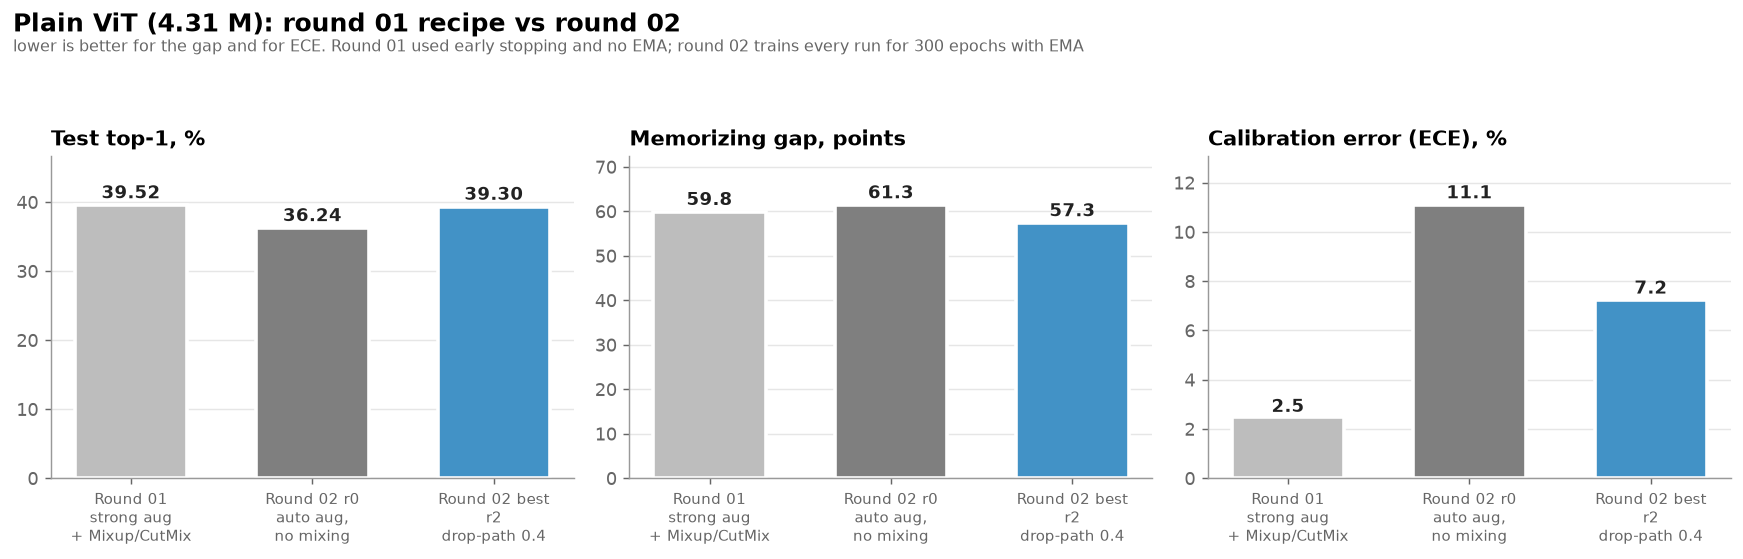
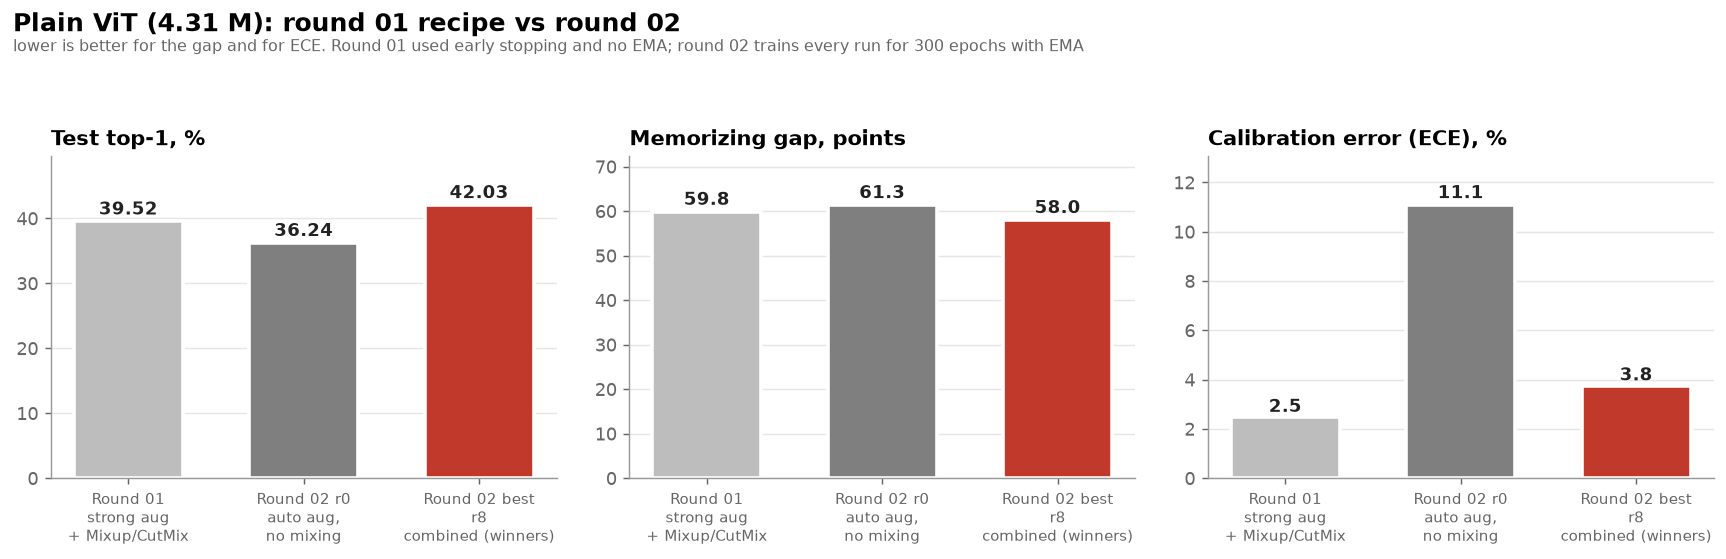
Plain ViT round 02 README and figures: r8 final run, +2.5 points over round 01, paired tests, comparison with CNN r8

diff --git a/Vision_Transformer/02_autoaug_nomix_regularization/README.md b/Vision_Transformer/02_autoaug_nomix_regularization/README.md
@@ -1,6 +1,6 @@
 # Vision Transformer, round 02: `auto` augmentation, no Mixup/CutMix, and a regularization search
 
-![task](https://img.shields.io/badge/task-fine--grained%20classification-blue) ![dataset](https://img.shields.io/badge/dataset-CUB--200--2011-green) ![pretrained](https://img.shields.io/badge/pretrained%20weights-none-red) ![model](https://img.shields.io/badge/model-plain%20ViT%204.31M-orange) ![runs](https://img.shields.io/badge/runs-8%20of%209-yellow) ![seeds](https://img.shields.io/badge/seeds-1%20of%203-yellow)
+![task](https://img.shields.io/badge/task-fine--grained%20classification-blue) ![dataset](https://img.shields.io/badge/dataset-CUB--200--2011-green) ![pretrained](https://img.shields.io/badge/pretrained%20weights-none-red) ![model](https://img.shields.io/badge/model-plain%20ViT%204.31M-orange) ![runs](https://img.shields.io/badge/runs-9%20of%209-brightgreen) ![seeds](https://img.shields.io/badge/seeds-1%20of%203-yellow)
 
 Round 01 ([`../01_strongaug_mixup_cutmix`](../01_strongaug_mixup_cutmix)) trained a plain Vision Transformer **from scratch** on 5,394 photos (about 27 per species) and found that it **memorizes** its training photos: about 100 % right on them, 42 % on new ones. This round asks: **which training changes reduce that memorizing, without hurting accuracy?**
 
@@ -12,23 +12,23 @@ It changes the base recipe (one augmentation operation at a time, no photo mixin
 
 ## 1. The result in one minute
 
-| | Round 01 (`base`) | Round 02 r0 | **Round 02 best: r2 drop-path 0.4** |
-|---|---|---|---|
-| Recipe | `strong` aug + Mixup/CutMix, early stopping, no EMA | `auto` aug, no mixing, 300 epochs, EMA | r0 + drop-path 0.4 |
-| Validation top-1 | 42.33 % | 39.17 % | **42.67 %** |
-| **Test top-1** | **39.52 %** | 36.24 % | **39.30 %** |
-| Test top-5 | **65.12 %** | 61.81 % | 63.48 % |
-| Test macro-F1 | **39.12 %** | 35.68 % | 38.72 % |
-| Memorizing gap | 59.8 pts | 61.3 pts | **57.3 pts** |
-| Calibration error (ECE) | **2.49 %** | 11.08 % | 7.25 % |
+| | Round 01 (`base`) | Round 02 r0 | Round 02 best single change: r2 | **Round 02 final: r8 combined** |
+|---|---|---|---|---|
+| Recipe | `strong` aug + Mixup/CutMix, early stopping, no EMA | `auto` aug, no mixing, 300 epochs, EMA | r0 + drop-path 0.4 | r0 + drop-path 0.4 + label smoothing 0.2 + weight decay 0.2 |
+| Validation top-1 | 42.33 % | 39.17 % | 42.67 % | **43.00 %** |
+| **Test top-1** | 39.52 % | 36.24 % | 39.30 % | **42.03 %** |
+| Test top-5 | 65.12 % | 61.81 % | 63.48 % | **67.16 %** |
+| Test macro-F1 | 39.12 % | 35.68 % | 38.72 % | **41.43 %** |
+| Memorizing gap | 59.8 pts | 61.3 pts | **57.3 pts** | 58.0 pts |
+| Calibration error (ECE) | **2.49 %** | 11.08 % | 7.25 % | 3.76 % |
 
-One seed (42), 5,794 unseen test photos, sampling noise about ±1.3 points. "Best" = the run with the best **validation** accuracy; r2 and r3 tie (42.67 %), and the tie goes to the smaller change. r8 (the winners combined) is not run yet.
+One seed (42), 5,794 unseen test photos, sampling noise about ±1.3 points. The final run is the one with the best **validation** accuracy: r8 (43.00 %).
 
 1. **The new base recipe hurt the ViT.** Round 02 r0 is 3.3 test points **below** round 01 (only r0 right on 490 photos, only round 01 right on 679; p < 0.0001). Removing Mixup/CutMix cost the ViT accuracy.
-2. **Drop-path is the one change that clearly helps:** +3.5 validation and +3.0 test points (0.4 and 0.5), significant on the test photos (p < 0.0001). It also gives the smallest gap.
-3. **The best run only gets back to round 01's level:** 39.30 % against 39.52 % (566 vs 581 photos, p = 0.68, no real difference), with a gap 2.5 points smaller.
-4. **SAM and weight decay 0.1 hurt;** label smoothing 0.2 and weight decay 0.2 help a little on validation but not on test.
-5. **Memorizing is not solved:** every run reaches about 100 % on the training photos; the gap stays between 57 and 63 points.
+2. **Drop-path is the one single change that clearly helps:** +3.5 validation and +3.0 test points (0.4 and 0.5), significant on the test photos (p < 0.0001). On its own it only gets back to round 01's level (39.30 % against 39.52 %, p = 0.68).
+3. **The winners combined (r8) beat everything:** 42.03 % test top-1, **+2.5 points above round 01** (only r8 right on 641 photos, only round 01 right on 496; p < 0.0001), +2.7 above r2 (p < 0.0001) and +5.8 above r0.
+4. **SAM and weight decay 0.1 hurt;** label smoothing 0.2 and weight decay 0.2 do little alone, but add to drop-path in r8.
+5. **Memorizing is not solved:** every run reaches about 100 % on the training photos; the gap stays between 57 and 63 points (r8: 58.0).
 
 ![Round 01 vs round 02](docs/figures/vit_07_round01_vs_round02.png)
 
@@ -167,15 +167,15 @@ Rules: **one seed (42)**; winners are picked on **validation only** (600 photos)
 |---|---|---|---|---|---|---|---|---|---|
 | r0_reference | nothing (new base recipe) | 141 | 39.17 % | | 61.3 | 36.24 % | 61.81 % | 35.68 % | 11.08 % |
 | r1_droppath0.2 | drop-path 0.1 → 0.2 | 99 | 40.17 % | +6 | 57.8 | 37.33 % | 63.96 % | 37.02 % | 9.46 % |
-| **r2_droppath0.4** | drop-path 0.1 → 0.4 | 299 | **42.67 %** | **+21** | 57.3 | **39.30 %** | 63.48 % | **38.72 %** | 7.25 % |
-| r3_droppath0.5 | drop-path 0.1 → 0.5 | 258 | **42.67 %** | **+21** | **57.2** | 38.97 % | **65.88 %** | 38.54 % | 9.41 % |
+| r2_droppath0.4 | drop-path 0.1 → 0.4 | 299 | 42.67 % | +21 | 57.3 | 39.30 % | 63.48 % | 38.72 % | 7.25 % |
+| r3_droppath0.5 | drop-path 0.1 → 0.5 | 258 | 42.67 % | +21 | **57.2** | 38.97 % | 65.88 % | 38.54 % | 9.41 % |
 | r4_labelsmooth0.2 | label smoothing 0.1 → 0.2 | 205 | 39.83 % | +4 | 60.2 | 36.24 % | 61.49 % | 35.64 % | **2.61 %** |
 | r5_wd0.1 | weight decay 0.05 → 0.1 | 233 | 38.00 % | −7 | 62.3 | 35.61 % | 59.86 % | 34.88 % | 4.47 % |
 | r6_wd0.2 | weight decay 0.05 → 0.2 | 137 | 40.33 % | +7 | 60.3 | 36.90 % | 62.46 % | 36.44 % | 10.18 % |
 | r7_sam | SAM optimizer (rho 0.05) | 122 | 37.67 % | −9 | 63.0 | 34.28 % | 59.99 % | 33.84 % | 10.42 % |
-| r8_combined | winners of r1 to r7 combined | *pending* | | | | | | | |
+| **r8_combined** | drop-path 0.4 + label smoothing 0.2 + weight decay 0.2 | 268 | **43.00 %** | **+23** | 58.0 | **42.03 %** | **67.16 %** | **41.43 %** | 3.76 % |
 
-*Gap = accuracy on augmentation-free training photos minus validation accuracy, at the chosen epoch. ECE = calibration error, lower is better. 1 validation photo = 0.17 points. Every run: 300 epochs, about 80 minutes on the RTX 5090 (15.9 s per epoch); SAM 146 minutes (29.2 s per epoch). Tables: [`docs/tables/`](docs/tables).*
+*Gap = accuracy on augmentation-free training photos minus validation accuracy, at the chosen epoch. ECE = calibration error, lower is better. 1 validation photo = 0.17 points. Every run: 300 epochs, about 80 minutes on the RTX 5090 (15.9 to 16.4 s per epoch); SAM 146 minutes (29.2 s per epoch). Tables: [`docs/tables/`](docs/tables).*
 
 ![Every run against r0](docs/figures/vit_01_overview.png)
 
@@ -192,6 +192,7 @@ Each run against r0, on the 5,794 test photos (exact McNemar test):
 | r5 weight decay 0.1 | −0.66 | 372 | 410 | 0.19 | no difference |
 | r6 weight decay 0.2 | +0.66 | 375 | 337 | 0.17 | no difference |
 | r7 SAM | −1.98 | 362 | 477 | **0.0001** | worse |
+| **r8 combined** | **+5.76** | 636 | 302 | **< 0.0001** | better |
 
 This shows the differences are not caused by which test photos happened to be drawn. It does **not** show they survive a different random seed; that needs the three-seed runs.
 
@@ -199,7 +200,7 @@ This shows the differences are not caused by which test photos happened to be dr
 
 ![Gap vs accuracy](docs/figures/vit_02_gap_vs_accuracy.png)
 
-The goal is up and to the left. **Drop-path 0.4 and 0.5 are the only runs clearly there:** +3.5 validation points and a gap 4 points smaller than r0. Label smoothing 0.2 and weight decay 0.2 move a little up and left. Weight decay 0.1 and SAM move down and right: less accurate and more memorizing.
+The goal is up and to the left. **r8 is the highest point**, with drop-path 0.4 and 0.5 just below it: about +3.5 to +3.8 validation points and a gap 3 to 4 points smaller than r0. Label smoothing 0.2 and weight decay 0.2 move a little up and left. Weight decay 0.1 and SAM move down and right: less accurate and more memorizing.
 
 ### How strong should each setting be?
 
@@ -216,9 +217,9 @@ The goal is up and to the left. **Drop-path 0.4 and 0.5 are the only runs clearl
 ![Learning curves, every run](docs/figures/vit_04_learning_curves.png)
 
 What the four panels show:
-* **Validation top-1 (top left):** most runs flatten at 37 to 40 % after about epoch 100. Only drop-path 0.4 and 0.5 keep climbing until the end (r2's best epoch is 299, r3's 258). SAM peaks early and then declines.
-* **Validation loss (top right):** every run reaches its lowest validation loss between epochs 68 and 112 and then rises. The drop-path 0.4 and 0.5 runs go lowest (2.65) and rise least (to 2.82 and 2.77 at epoch 300, against 3.05 for r0).
-* **Training photos (bottom left):** every run reaches 99 % on clean training photos, between epoch 100 (r0, label smoothing, weight decay 0.1) and epoch 150 (drop-path 0.5). Drop-path slows memorizing down but does not stop it.
+* **Validation top-1 (top left):** most runs flatten at 37 to 40 % after about epoch 100. Only the runs with drop-path 0.4 or 0.5 keep climbing until the end (r2's best epoch is 299, r3's 258, r8's 268). SAM peaks early and then declines.
+* **Validation loss (top right):** every run reaches its lowest validation loss between epochs 68 and 112 and then rises. r8 goes lowest (2.63 at epoch 110) and, with r3, rises least (to 2.76 at epoch 300, against 3.05 for r0).
+* **Training photos (bottom left):** every run reaches 99 % on clean training photos, between epoch 100 (r0, label smoothing, weight decay 0.1) and epoch 150 (drop-path 0.5); r8 at epoch 135. Drop-path slows memorizing down but does not stop it.
 * **Gap (bottom right):** it climbs to about 60 points by epoch 100 and stays there; at epoch 300 it ranges from 57 (drop-path) to 65 (SAM).
 
 ![Race](docs/animations/vit_race.gif)
@@ -235,60 +236,61 @@ Evaluating the slow-moving average of the weights instead of the latest weights 
 
 ## 7. The best run in detail
 
-r2 (drop-path 0.4), the run chosen on validation.
+r8 (drop-path 0.4 + label smoothing 0.2 + weight decay 0.2), the run chosen on validation.
 
-| | r2 drop-path 0.4 |
+| | r8 combined |
 |---|---|
-| **Test top-1** | **39.30 %** |
-| Test top-5 | 63.48 % |
-| Test macro-F1 | 38.72 % |
-| Validation top-1 at the chosen epoch | 42.67 % |
-| Memorizing gap | 57.3 pts |
-| Calibration error (ECE) | 7.25 % |
-| Chosen epoch / epochs run | 299 / 300 |
-| Training time (RTX 5090) | 80 min |
+| **Test top-1** | **42.03 %** |
+| Test top-5 | 67.16 % |
+| Test macro-F1 | 41.43 % |
+| Validation top-1 at the chosen epoch | 43.00 % |
+| Memorizing gap | 58.0 pts |
+| Calibration error (ECE) | 3.76 % |
+| Chosen epoch / epochs run | 268 / 300 |
+| Training time (RTX 5090) | 82 min (16.3 s per epoch) |
+| Parameters / compute / latency (batch 1) | 4.31 M / 1.55 GFLOPs / 15.8 ms |
 
 ### Did it improve on round 01?
 
 ![Did it improve](docs/figures/vit_08_did_it_improve.png)
 
-No. On the same test photos, only r2 is right on 566 and only round 01 on 581 (p = 0.68). Species by species it is a draw: 99 species better, 98 worse, 3 unchanged, median change 0.0. The biggest gains are American Goldfinch (+25) and Frigatebird (+23); the biggest losses Least Auklet (−30) and Pileated Woodpecker (−24).
+Yes. On the same test photos, only r8 is right on 641 and only round 01 on 496 (+2.5 points, p < 0.0001). Species by species: 120 species better, 78 worse, 2 unchanged, median change +3.3 F1 points. The biggest gains are Frigatebird (+28), American Goldfinch (+26) and Yellow breasted Chat (+24); the biggest losses Pileated Woodpecker (−23), Marsh Wren (−20) and Least Auklet (−17).
 
 ### Are the confidence numbers honest?
 
 ![Calibration](docs/figures/vit_06_calibration.png)
 
-* Most round-02 runs are **over-confident** (curves below the diagonal): r0 has an ECE of 11.1 %, against 2.5 % in round 01. A likely reason: Mixup/CutMix train on blended labels, which keeps confidence down; without them that effect is gone. r2 is said to be 46.5 % sure on average while it is right 39.3 % of the time.
-* **Label smoothing 0.2** is the exception: ECE 2.6 %, slightly under-confident.
+* Most round-02 runs are **over-confident** (curves below the diagonal): r0 has an ECE of 11.1 %, against 2.5 % in round 01. A likely reason: Mixup/CutMix train on blended labels, which keeps confidence down; without them that effect is gone.
+* **Label smoothing 0.2** brings it back: r4 has an ECE of 2.6 % and r8 3.8 %. r8 is slightly **under-confident**: it is 38.3 % sure on average while it is right 42.0 % of the time.
 
 ### Which species are easy and which are hard?
 
 ![Species](docs/figures/vit_09_species.png)
 
-| | r2 drop-path 0.4 |
+| | r8 combined |
 |---|---|
-| Median species F1 | 38.3 |
-| Species with F1 above 80 | 0 |
-| Species with F1 below 20 | 31 |
+| Median species F1 | 41.4 |
+| Species with F1 above 80 | 2 |
+| Species with F1 below 20 | 30 |
 | Species never recognised (F1 = 0) | 0 |
 
-* **Easiest:** Red cockaded Woodpecker (79.3), Painted Bunting (76.4), Yellow headed Blackbird (75.9), Evening Grosbeak (74.6), Green Jay (73.1): strong, unique colours or patterns.
-* **Hardest:** Least Flycatcher (4.1), Western Wood Pewee (7.7), White necked Raven (8.5), Song Sparrow (10.0), Gray Kingbird (10.5): plain brown, grey or black birds with close look-alikes.
+* **Easiest:** Green Jay (82.1), Painted Bunting (81.4), Common Yellowthroat (80.0), Evening Grosbeak (78.7), Magnolia Warbler (77.2): strong, unique colours or patterns.
+* **Hardest:** Least Flycatcher (3.3), Western Wood Pewee (3.4), Marsh Wren (7.5), American Crow (7.8), White necked Raven (8.5): plain brown, grey or black birds with close look-alikes.
 
 ### What does the model confuse?
 
 ![Confusions](docs/figures/vit_10_confusions.png)
 
-The most common mistakes are between close relatives: **Eared Grebe → Horned Grebe** (9 of 30 photos), **Great Grey Shrike → Loggerhead Shrike**, **California Gull → Glaucous winged Gull**, **Herring Gull → Western Gull**, **Black footed → Sooty Albatross**, **Elegant → Caspian Tern**, **Forsters → Common Tern**.
+The most common mistakes are between close relatives: **Great Crested Flycatcher → Tropical Kingbird** (9 photos), **Common Tern → Forsters Tern**, **Great Grey Shrike → Loggerhead Shrike**, **American Crow → Common Raven** (8 each), **Eared Grebe → Horned Grebe**, **Vesper Sparrow → Savannah Sparrow** (7 each).
 
 <details>
 <summary><b>Each run's own plots, as saved by the trainer (click to open)</b></summary>
 
-Every run folder `results/vit_base/<run>/seed42/` has `curves.png`, `test_confusion_matrix.png` and `test_reliability.png`. The best run:
+Every run folder `results/vit_base/<run>/seed42/` has `curves.png`, `test_confusion_matrix.png` and `test_reliability.png`. The final run:
 
-![r2 curves](results/vit_base/r2_droppath0.4/seed42/curves.png)
-![r2 confusion matrix](results/vit_base/r2_droppath0.4/seed42/test_confusion_matrix.png)
-![r2 reliability](results/vit_base/r2_droppath0.4/seed42/test_reliability.png)
+![r8 curves](results/vit_base/r8_combined/seed42/curves.png)
+![r8 confusion matrix](results/vit_base/r8_combined/seed42/test_confusion_matrix.png)
+![r8 reliability](results/vit_base/r8_combined/seed42/test_reliability.png)
 
 </details>
 
@@ -296,16 +298,29 @@ Every run folder `results/vit_base/<run>/seed42/` has `curves.png`, `test_confus
 
 ## 8. Round 3: r8, the winners combined
 
-**Not run yet.** By the rule (beat r0 on validation by more than one photo, one value per setting), the proposed winners are:
+By the rule (beat r0 on validation by more than one photo, one value per setting), the winners are:
 
-| Setting | Value | Validation vs r0 | In r8? |
-|---|---|---|---|
-| Drop-path | **0.4** | +21 photos (0.5 ties at +21; the tie goes to the smaller change) | yes |
-| Label smoothing | **0.2** | +4 photos | yes |
-| Weight decay | **0.2** | +7 photos (0.1: −7) | yes |
-| SAM | off | −9 photos | no |
+| Setting | Value | Validation vs r0 (alone) | Test vs r0 (alone) | In r8? |
+|---|---|---|---|---|
+| Drop-path | **0.4** | +21 photos (0.5 ties at +21; the tie goes to the smaller change) | +3.00 | yes |
+| Label smoothing | **0.2** | +4 photos | +0.02 | yes |
+| Weight decay | **0.2** | +7 photos (0.1: −7) | +0.66 | yes |
+| SAM | off | −9 photos | −1.98 | no |
 
-r8 = drop-path 0.4 + label smoothing 0.2 + weight decay 0.2 (about 80 minutes). It is added to `COMBINED` in [`vit/config.py`](vit/config.py) once approved.
+r8 = drop-path 0.4 + label smoothing 0.2 + weight decay 0.2.
+
+| Paired test on the test photos | Change, test top-1 | Only r8 right | Only the other right | p |
+|---|---|---|---|---|
+| r8 vs r0 | **+5.76** | 636 | 302 | < 0.0001 |
+| r8 vs r2 (best single change) | **+2.75** | 468 | 308 | < 0.0001 |
+| r8 vs round 01 | **+2.50** | 641 | 496 | < 0.0001 |
+
+* **The winners add up on test, not on validation.** On validation r8 is +23 photos against +32 for the three changes summed; on test it is +5.76 points against +3.68 summed. The 600 validation photos are too few to show small gains clearly; the 5,794 test photos show that label smoothing and weight decay add about 2.7 points on top of drop-path.
+* **r8 is the final plain-ViT recipe of round 02** and the first round-02 run to beat round 01.
+* **Calibration also improves:** ECE 3.76 % against 7.25 % for r2, thanks to label smoothing 0.2.
+* **The gap does not shrink further:** 58.0 points, about the same as r2 (57.3).
+
+The exact settings are in [`vit/config.py`](vit/config.py) (`COMBINED`) and in [`results/vit_base/r8_combined/seed42/config.json`](results/vit_base/r8_combined/seed42/config.json).
 
 ---
 
@@ -322,27 +337,31 @@ The CNNs went through exactly the same round 02 ([`../../CNN_Baseline/02_autoaug
 | r5 weight decay 0.1 | −1.17 | +2.00 | +1.84 |
 | r6 weight decay 0.2 | +1.17 | **+3.33** | **+4.67** |
 | r7 SAM | −1.50 | +0.16 | +1.50 |
+| **r8 combined** | **+3.83** | **+4.00** | **+4.67** |
 
 | | Plain ViT | CNN small | CNN large |
 |---|---|---|---|
 | Parameters | 4.31 M | 4.22 M | 11.28 M |
 | r0 test top-1 | 36.24 % | 43.75 % | 46.03 % |
-| Best test top-1 so far | 39.30 % (r2) | 47.65 % (r8) | 51.52 % (r8) |
+| **Final test top-1 (r8)** | **42.03 %** | **47.65 %** | **51.52 %** |
 | Round 01 test top-1 | 39.52 % | 43.65 % | 45.86 % |
+| Gain over round 01 | +2.51 | +4.00 | +5.66 |
 
-* **The two architectures need opposite things.** Drop-path is the ViT's best change and hurts the CNNs at 0.4 and 0.5; weight decay 0.2 is the CNNs' best change and does little for the ViT.
+* **The two architectures need opposite things.** Drop-path is the ViT's best change and hurts the CNNs at 0.4 and 0.5; weight decay 0.2 is the CNNs' best change and does little for the ViT alone.
+* **Combining the winners helps all three models about equally** on validation (+3.8 to +4.7 points over each model's own r0).
 * **Removing Mixup/CutMix hurt only the ViT:** the CNNs' r0 matched their round 01, the ViT's r0 is 3.3 points below.
-* **The gap to the CNNs grew:** the plain ViT is now 8.4 points behind the CNN of the same size (round 01: 4.1).
+* **The gap to the CNNs grew:** the plain ViT is now 5.6 points behind the CNN of the same size (round 01: 4.1), because the CNNs gained more from round 02.
 
 ---
 
 ## 10. What we learned
 
 * **For a ViT trained from scratch on this little data, Mixup/CutMix matters.** Removing it cost 3.3 test points; the CNNs lost nothing.
-* **Drop-path is the regularizer that suits the ViT:** +3 test points at 0.4, and the only change that keeps validation accuracy rising until epoch 300.
-* **The search only recovers round 01's level** (39.30 % against 39.52 %). The new recipe plus the best single change is a draw with the old recipe.
-* **Regularization slows memorizing but does not stop it:** every run reaches about 100 % on training photos; the best gap is 57 points.
-* **Without Mixup/CutMix the ViT becomes over-confident** (ECE 7 to 11 % against 2.5 %); label smoothing 0.2 fixes that (2.6 %).
+* **Drop-path is the regularizer that suits the ViT:** +3 test points at 0.4, and the only single change that keeps validation accuracy rising until epoch 300.
+* **One change is not enough; the combination is.** Drop-path alone only recovers round 01's level (39.30 % against 39.52 %); drop-path + label smoothing 0.2 + weight decay 0.2 reaches **42.03 %**, +2.5 points above round 01 (p < 0.0001).
+* **Small gains hide on a small validation set.** Label smoothing and weight decay looked useless alone, but added about 2.7 test points in r8.
+* **Regularization slows memorizing but does not stop it:** every run reaches about 100 % on training photos; the best gap is 57 to 58 points.
+* **Without Mixup/CutMix the ViT becomes over-confident** (ECE 7 to 11 % against 2.5 %); label smoothing 0.2 fixes that (r4 2.6 %, r8 3.8 %).
 * **SAM hurts the ViT** (−2 test points, significant), although it helped CNN large.
 
 ---
@@ -350,7 +369,7 @@ The CNNs went through exactly the same round 02 ([`../../CNN_Baseline/02_autoaug
 ## 11. Limits
 
 - **One seed.** Every number is seed 42; seeds 43 and 44 are not run.
-- **r8 not run.** The combined recipe is proposed but untested; the gains may not add up.
+- **The r8 gain over the single changes is seen on test, not on validation.** r8 was chosen by the rule fixed in advance, but its margin on validation is small (+2 photos over r2 and r3).
 - **Small validation set.** 600 photos (3 per species) choose the best epoch and the winners. r2 and r3 tie exactly; one photo is 0.17 points.
 - **Different settings than round 01 in more than one way.** Round 02 changes augmentation, Mixup/CutMix, stopping and EMA at once, so the r0 drop cannot be pinned on one of them (the CNN results point at Mixup/CutMix, since the CNNs used EMA in both rounds).
 - **Different hardware.** Round 02: RTX 5090, PyTorch 2.11; round 01: RTX 4090, PyTorch 2.5.1. Accuracy should be unaffected; times are not comparable.
@@ -367,6 +386,7 @@ Run everything from inside this folder. The code is imported from `../patchvisio
 cd Vision_Transformer/02_autoaug_nomix_regularization
 python train.py vit_base r0_reference 42             # one run
 python run_queue.py vit_base                         # r0 to r7, one after another
+python run_queue.py vit_base r8_combined             # r8, the winners combined
 python watch_training.py vit_base r0_reference 42    # live monitor, in a second terminal
 python docs/make_figures.py                          # rebuild the result figures, tables and race
 python docs/make_augmentation_figures.py             # rebuild the augmentation figures
@@ -383,9 +403,9 @@ sys.path.insert(0, ".")                                   # run from inside Visi
 from vit.config import get_experiment
 from vit.model import build_model
 
-exp = get_experiment("vit_base", "r2_droppath0.4")
+exp = get_experiment("vit_base", "r8_combined")
 model = build_model(exp.model)
-ck = torch.load("results/vit_base/r2_droppath0.4/seed42/best_model.pt", map_location="cpu", weights_only=False)
+ck = torch.load("results/vit_base/r8_combined/seed42/best_model.pt", map_location="cpu", weights_only=False)
 model.load_state_dict(ck["state"])                        # the EMA weights of the chosen epoch
 model.eval()
 # model(x) takes a normalised (B, 3, 224, 224) tensor and returns (B, 200) species scores
@@ -398,7 +418,7 @@ model.eval()
 ```
 Vision_Transformer/02_autoaug_nomix_regularization/
 ├── README.md                     this page
-├── train.py                      one run:  python train.py vit_base r2_droppath0.4 42
+├── train.py                      one run:  python train.py vit_base r8_combined 42
 ├── run_queue.py                  several runs one after another
 ├── watch_training.py             live monitor
 ├── vit/

diff --git a/Vision_Transformer/02_autoaug_nomix_regularization/docs/tables/vit_base_round02.md b/Vision_Transformer/02_autoaug_nomix_regularization/docs/tables/vit_base_round02.md
@@ -2,10 +2,10 @@
 |---|---|---|---|---|---|---|---|---|---|
 | r0_reference | nothing (new base recipe) | 141 | 39.17 % |  | 61.3 | 36.24 % | 61.81 % | 35.68 % | 11.08 % |
 | r1_droppath0.2 | drop-path 0.1 → 0.2 | 99 | 40.17 % | +6 | 57.8 | 37.33 % | 63.96 % | 37.02 % | 9.46 % |
-| **r2_droppath0.4** | drop-path 0.1 → 0.4 | 299 | **42.67 %** | +21 | 57.3 | 39.30 % | 63.48 % | 38.72 % | 7.25 % |
+| r2_droppath0.4 | drop-path 0.1 → 0.4 | 299 | 42.67 % | +21 | 57.3 | 39.30 % | 63.48 % | 38.72 % | 7.25 % |
 | r3_droppath0.5 | drop-path 0.1 → 0.5 | 258 | 42.67 % | +21 | 57.2 | 38.97 % | 65.88 % | 38.54 % | 9.41 % |
 | r4_labelsmooth0.2 | label smoothing 0.1 → 0.2 | 205 | 39.83 % | +4 | 60.2 | 36.24 % | 61.49 % | 35.64 % | 2.61 % |
 | r5_wd0.1 | weight decay 0.05 → 0.1 | 233 | 38.00 % | -7 | 62.3 | 35.61 % | 59.86 % | 34.88 % | 4.47 % |
 | r6_wd0.2 | weight decay 0.05 → 0.2 | 137 | 40.33 % | +7 | 60.3 | 36.90 % | 62.46 % | 36.44 % | 10.18 % |
 | r7_sam | SAM optimizer (rho 0.05) | 122 | 37.67 % | -9 | 63.0 | 34.28 % | 59.99 % | 33.84 % | 10.42 % |
-| r8_combined | winners of r1-r7 combined | *pending* | *pending* | | | | | | |
+| **r8_combined** | winners of r1-r7 combined | 268 | **43.00 %** | +23 | 58.0 | 42.03 % | 67.16 % | 41.43 % | 3.76 % |

diff --git a/Vision_Transformer/02_autoaug_nomix_regularization/docs/tables/vit_base_significance.md b/Vision_Transformer/02_autoaug_nomix_regularization/docs/tables/vit_base_significance.md
@@ -7,3 +7,4 @@
 | r5_wd0.1 | -0.66 | 372 | 410 | 0.1858 | no |
 | r6_wd0.2 | +0.66 | 375 | 337 | 0.1655 | no |
 | r7_sam | -1.98 | 362 | 477 | 0.0001 | yes |
+| r8_combined | +5.76 | 636 | 302 | 0.0000 | yes |
